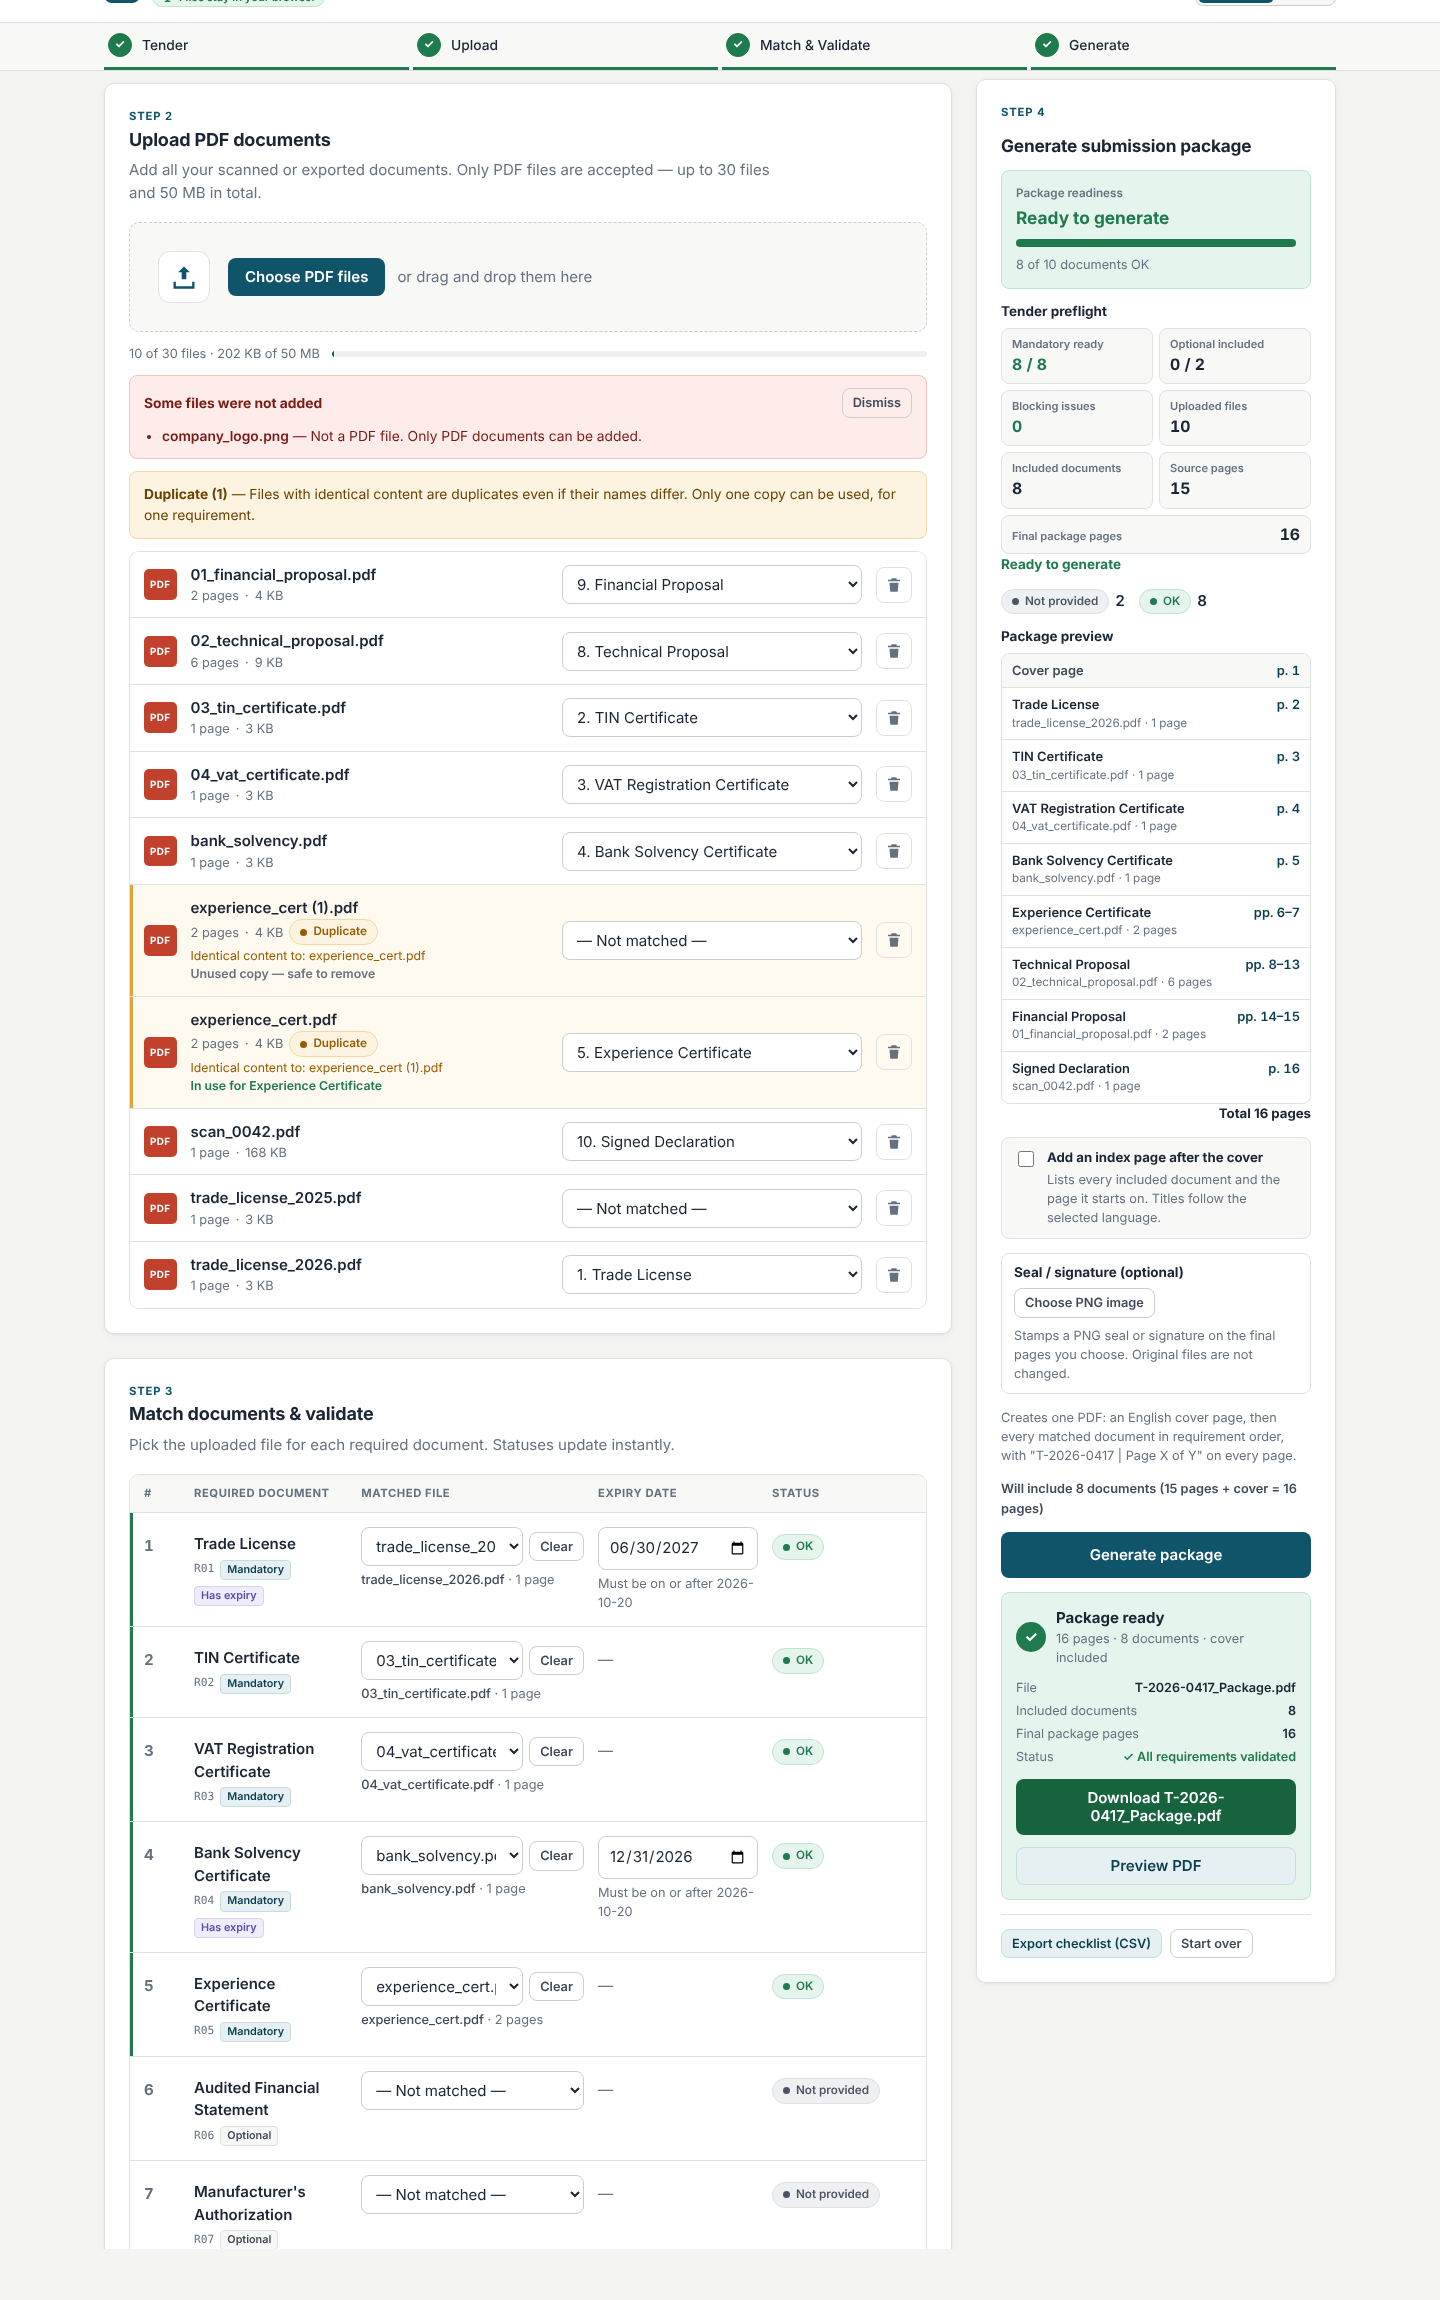
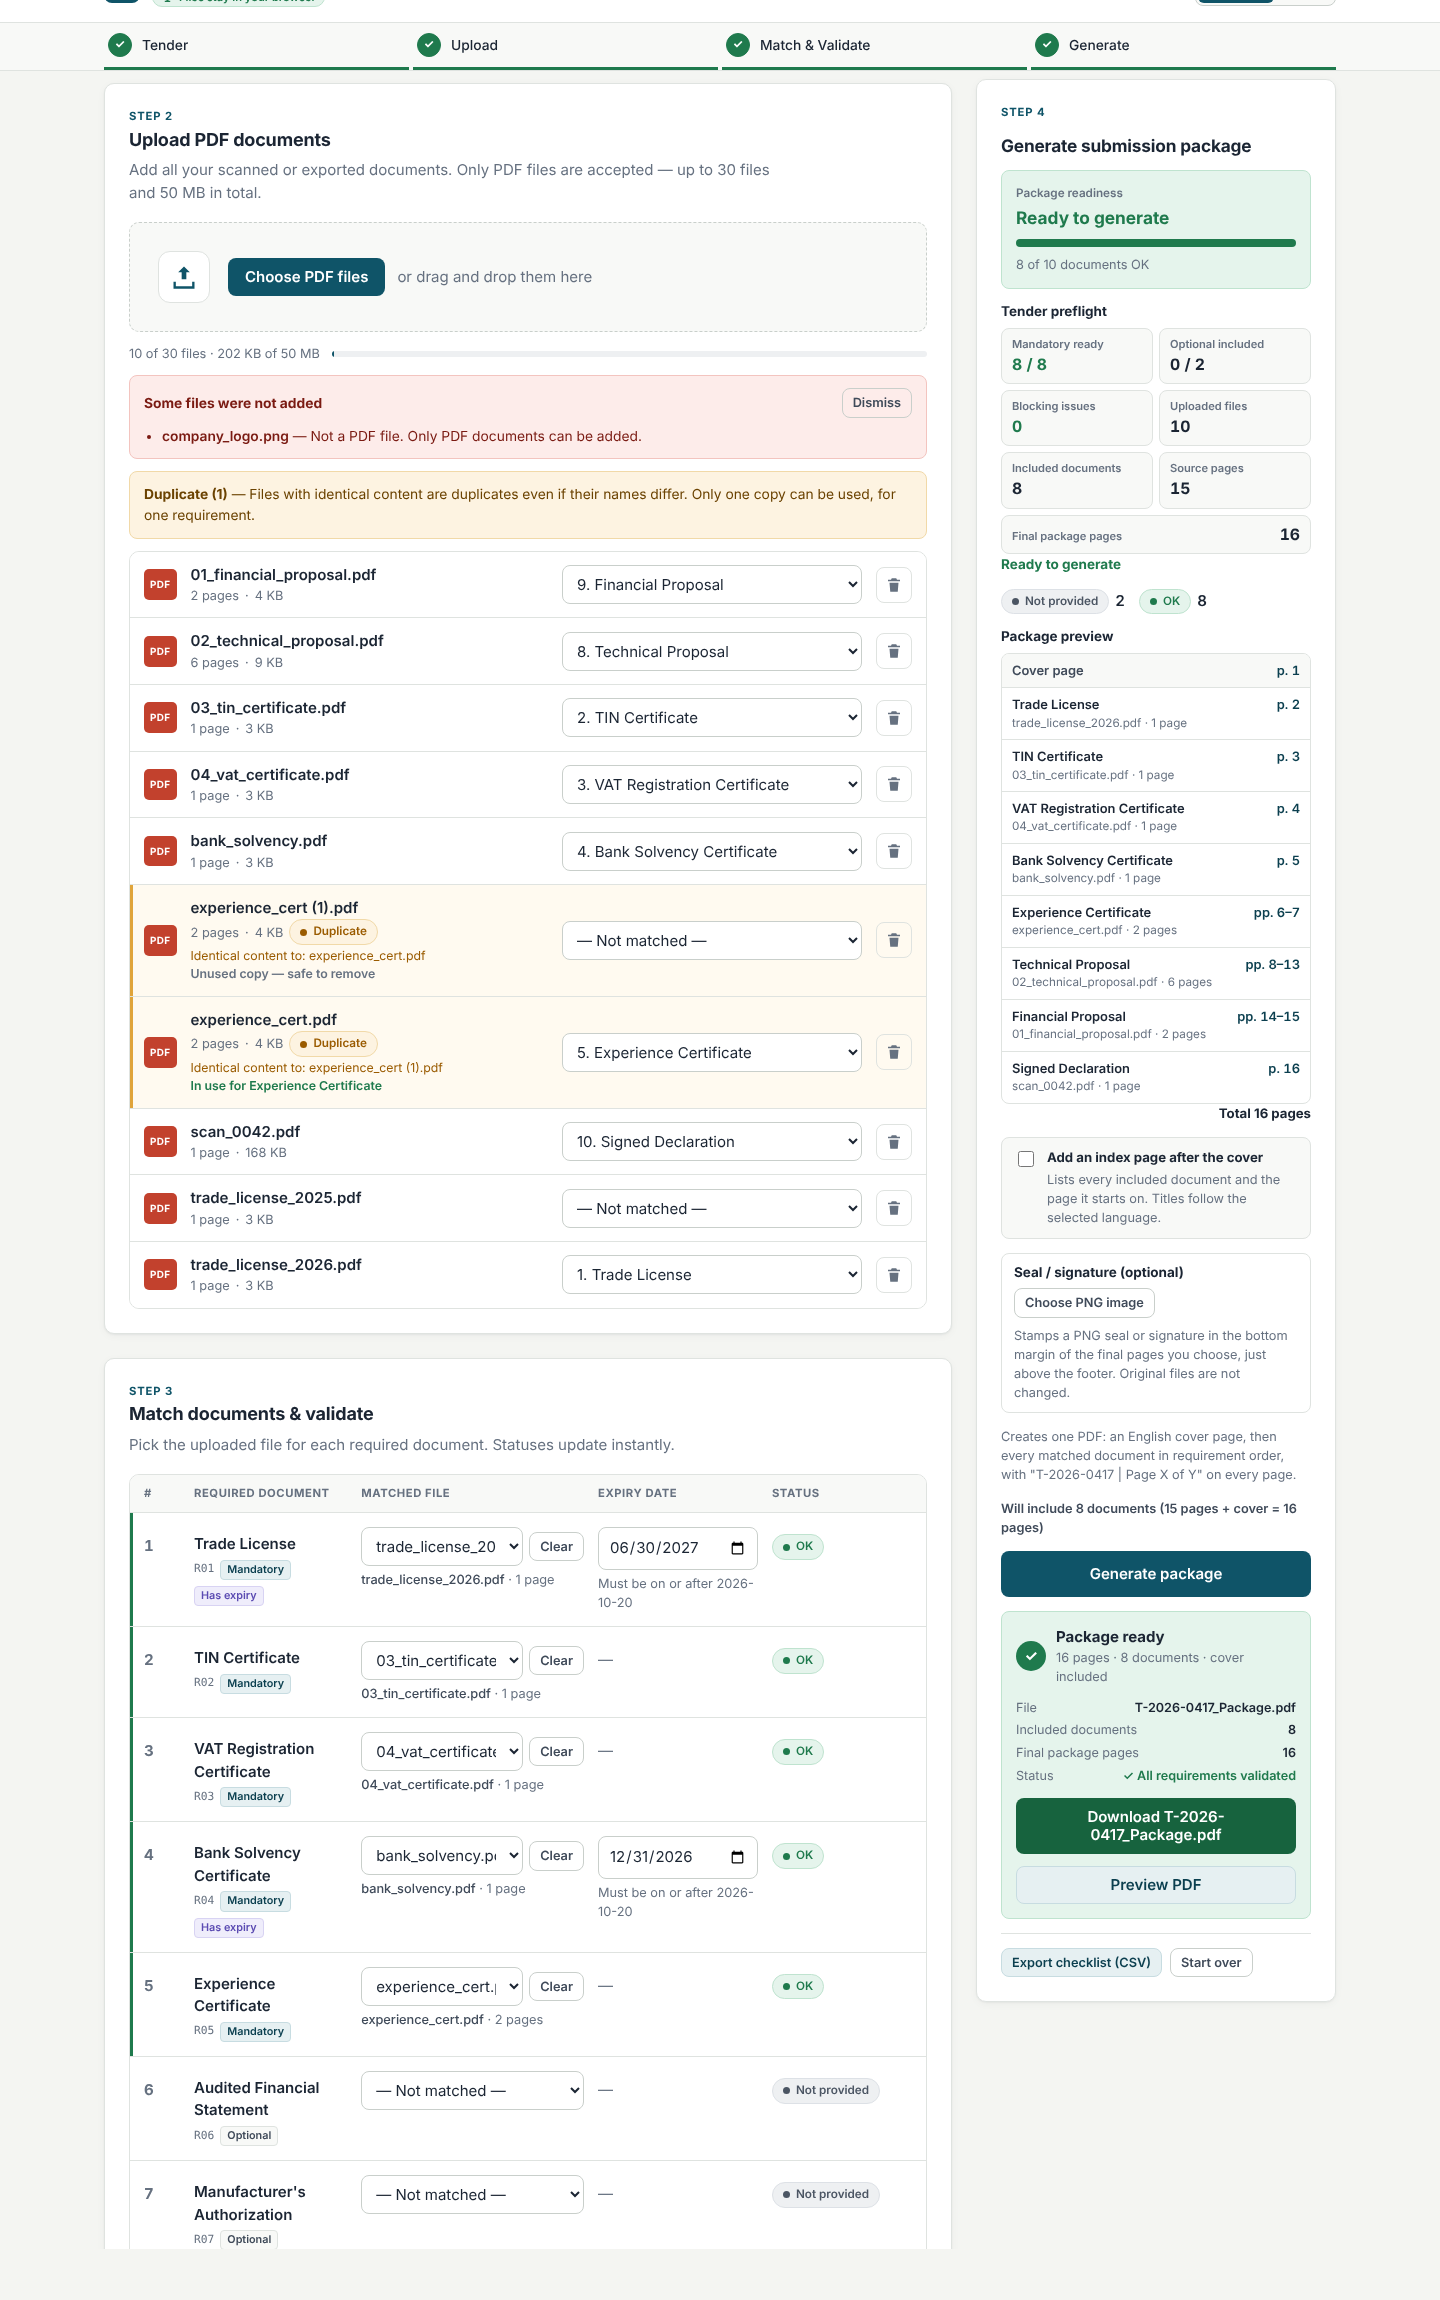
Keep seals clear of page content
- Place seals only in the bottom margin, above the footer
- Cap seal size so it fits the margin band on every page
- Keep the cover document list clear of that band
- List every document on the cover, even for long packages
- Translate the non-PNG seal error when switching language

AI Prompt: Make the optional seal/signature bonus judge-safe: no blocking when unused, PNG-only with bilingual errors, strict page validation, placement inside the page that never covers document content or the footer, rotation-aware, with the official output left unchanged.

Changed region(s): [[0.6875, 0.5865, 0.9062, 0.8643]]

diff --git a/src/lib/pdf.js b/src/lib/pdf.js
@@ -136,22 +136,26 @@ function drawCover(page, fonts, tender, entries, generatedOn) {
   page.drawText('Included Documents', { x: M, y, size: 13, font: bold, color: INK })
   y -= 20
 
-  // Shrink the list until it fits above the footer area.
-  const bottom = 48
+  // Shrink the list until it fits above the seal band and footer. If it still does not fit,
+  // drop the file-name lines so every included document is always listed.
+  const bottom = SEAL_BAND_TOP + 4
   const colNo = 26
   const colPages = 86
   let size = 10
   let layout
-  for (; size >= 6; size -= 0.5) {
-    const lh = size * 1.35
-    layout = entries.map((e) => {
-      const title = wrap(bold, safeText(bold, e.title), size, width - colNo - colPages)
-      const file = wrap(regular, safeText(regular, e.fileName), size - 1, width - colNo - colPages)
-      return { e, title, file, h: (title.length + file.length) * lh + size * 0.6 }
-    })
-    const total = layout.reduce((s, l) => s + l.h, size * 1.8)
-    if (y - total >= bottom) break
+  fitting: for (const withFiles of [true, false]) {
+    for (size = 10; size >= 6; size -= 0.5) {
+      const lh = size * 1.35
+      layout = entries.map((e) => {
+        const title = wrap(bold, safeText(bold, e.title), size, width - colNo - colPages)
+        const file = withFiles ? wrap(regular, safeText(regular, e.fileName), size - 1, width - colNo - colPages) : []
+        return { e, title, file, h: (title.length + file.length) * lh + size * 0.6 }
+      })
+      const total = layout.reduce((s, l) => s + l.h, size * 1.8)
+      if (y - total >= bottom) break fitting
+    }
   }
+  size = Math.max(size, 6)
   const lh = size * 1.35
 
   page.drawText('#', { x: M, y, size: size - 1, font: bold, color: MUTED })
@@ -291,25 +295,28 @@ export function parsePageList(text, max) {
   return [...out].sort((x, y) => x - y)
 }
 
-export const SEAL_SIZES = { s: 70, m: 100, l: 140 }
+export const SEAL_SIZES = { s: 48, m: 60, l: 72 }
+// Seals live in the bottom margin band, between the footer and normal page content.
+const SEAL_BOTTOM = 30
+const SEAL_BAND_TOP = SEAL_BOTTOM + SEAL_SIZES.l
 
-// Places the seal in a visual corner of the page (honouring /Rotate), clear of the footer strip.
+// Places the seal in a bottom corner of the visual page (honouring /Rotate), above the footer strip
+// and inside the bottom margin band so it does not cover the letterhead or body text.
 function drawSeal(page, image, position, sizePt) {
   const box = page.getCropBox()
   const rot = (((page.getRotation().angle || 0) % 360) + 360) % 360
   const sideways = rot === 90 || rot === 270
   const VW = sideways ? box.height : box.width
   const VH = sideways ? box.width : box.height
-  let w = Math.min(sizePt, VW * 0.4)
-  let h = (w * image.height) / image.width
-  if (h > VH * 0.3) {
-    h = VH * 0.3
-    w = (h * image.width) / image.height
-  }
+  // Fit inside a sizePt x sizePt box (and a sane share of small pages), preserving aspect ratio.
+  const maxW = Math.min(sizePt * 1.6, VW * 0.3)
+  const maxH = Math.min(sizePt, VH * 0.1)
+  const k = Math.min(maxW / image.width, maxH / image.height)
+  const w = image.width * k
+  const h = image.height * k
   const margin = 24
-  const bottom = 36 // keeps the seal above the footer
-  const vx = position.endsWith('left') ? margin : VW - margin - w
-  const vy = position.startsWith('bottom') ? bottom : VH - margin - h
+  const vx = position === 'bottom-left' ? margin : VW - margin - w
+  const vy = SEAL_BOTTOM
   let x, y
   if (rot === 90) {
     x = box.x + box.width - vy

diff --git a/src/lib/i18n.js b/src/lib/i18n.js
@@ -162,15 +162,13 @@ const en = {
   errRestore: 'Saved copy is missing or changed — upload this file again.',
   sealTitle: 'Seal / signature (optional)',
   sealChoose: 'Choose PNG image',
-  sealHint: 'Stamps a PNG seal or signature on the final pages you choose. Original files are not changed.',
+  sealHint: 'Stamps a PNG seal or signature in the bottom margin of the final pages you choose, just above the footer. Original files are not changed.',
   sealPreviewAlt: 'Seal preview',
   sealPages: 'Final page numbers (1–{max})',
   sealPos: 'Position',
   sealSize: 'Size',
   'pos_bottom-right': 'Bottom right',
   'pos_bottom-left': 'Bottom left',
-  'pos_top-right': 'Top right',
-  'pos_top-left': 'Top left',
   size_s: 'Small',
   size_m: 'Medium',
   size_l: 'Large',
@@ -338,15 +336,13 @@ const bn = {
   errRestore: 'সংরক্ষিত কপি নেই বা বদলে গেছে — ফাইলটি আবার আপলোড করুন।',
   sealTitle: 'সিল / স্বাক্ষর (ঐচ্ছিক)',
   sealChoose: 'PNG ছবি বেছে নিন',
-  sealHint: 'আপনার বেছে নেওয়া চূড়ান্ত পৃষ্ঠাগুলোতে PNG সিল বা স্বাক্ষর বসায়। মূল ফাইল বদলায় না।',
+  sealHint: 'আপনার বেছে নেওয়া চূড়ান্ত পৃষ্ঠাগুলোর নিচের মার্জিনে, ফুটারের ঠিক উপরে PNG সিল বা স্বাক্ষর বসায়। মূল ফাইল বদলায় না।',
   sealPreviewAlt: 'সিলের প্রিভিউ',
   sealPages: 'চূড়ান্ত পৃষ্ঠা নম্বর (১–{max})',
   sealPos: 'অবস্থান',
   sealSize: 'আকার',
   'pos_bottom-right': 'নিচে ডানে',
   'pos_bottom-left': 'নিচে বামে',
-  'pos_top-right': 'উপরে ডানে',
-  'pos_top-left': 'উপরে বামে',
   size_s: 'ছোট',
   size_m: 'মাঝারি',
   size_l: 'বড়',

diff --git a/src/App.jsx b/src/App.jsx
@@ -311,7 +311,7 @@ export default function App() {
     if (!file) return
     const bytes = new Uint8Array(await file.arrayBuffer())
     if (!isPng(bytes)) {
-      setSealError(t('errSealPng'))
+      setSealError('errSealPng')
       return
     }
     setSealError('')
@@ -878,7 +878,7 @@ export default function App() {
                         <label>
                           <span className="small">{t('sealPos')}</span>
                           <select value={sealPos} onChange={(e) => setSealPos(e.target.value)}>
-                            {['bottom-right', 'bottom-left', 'top-right', 'top-left'].map((p) => <option key={p} value={p}>{t(`pos_${p}`)}</option>)}
+                            {['bottom-right', 'bottom-left'].map((p) => <option key={p} value={p}>{t(`pos_${p}`)}</option>)}
                           </select>
                         </label>
                         <label>
@@ -893,7 +893,7 @@ export default function App() {
                       </p>
                     </>
                   )}
-                  {sealError && <p className="small seal-err" role="alert">{sealError}</p>}
+                  {sealError && <p className="small seal-err" role="alert">{t(sealError)}</p>}
                 </section>
 
                 <p className="muted small">{t('generateHelp', { id: data.tender.tender_id })}</p>

diff --git a/README.md b/README.md
@@ -42,7 +42,7 @@ Optional browser test: run `npm run dev`, then `node tests/e2e.cjs` (requires Pl
 - **Duplicate detection by content.** The app computes a SHA-256 hash of each file's bytes with the Web Crypto API. All copies are marked and the duplication is explained. A copy cannot be matched to a different requirement while another copy is in use (that option is disabled and the reason is shown). Duplicates are recalculated when files are removed.
 - **Expiry dates.** An expiry input appears when `has_expiry` is true and a file is matched. It is compared to the deadline as a `YYYY-MM-DD` string: an expiry before the deadline is Expired, and an expiry on or after the deadline is OK.
 - **Status engine (`src/lib/status.js`).** Every requirement gets exactly one of: Missing, Expiry date needed, Expired, Not provided, or OK. The readiness summary, blocking-reason list, progress bar and Generate button all read from this single engine.
-- **Generated PDF.** Page 1 is an English cover with the tender ID, title, procuring entity, bidder, deadline, generation date, and the list of included documents in final order with their page ranges. Matched documents follow in requirement order. All original pages are kept in their original order, and unmatched optional requirements are skipped.
+- **Generated PDF.** Page 1 is an English cover with the tender ID, title, procuring entity, bidder, deadline, generation date, and the list of included documents in final order with their page ranges. Long lists shrink to fit; if they still don't fit, the file-name lines are dropped so every included document stays listed (tested with 30 documents). Matched documents follow in requirement order. All original pages are kept in their original order, and unmatched optional requirements are skipped.
 - **Footer.** Every page, including the cover, carries `<tender_id> | Page X of Y`. Y is the final total, computed before numbering. The footer is small, centred at the bottom on a light backing, and placed correctly on rotated pages.
 - **Download** as `<tender_id>_Package.pdf`. Characters that are illegal in filenames are replaced.
 - **Full English | বাংলা switch.** It covers the header, steps, buttons, labels, help text, statuses, errors, blocking reasons and generate/download actions, and uses Bangla numerals. Document names use `title_en` or `title_bn` depending on the language.
@@ -56,7 +56,7 @@ Optional browser test: run `npm run dev`, then `node tests/e2e.cjs` (requires Pl
 - **Index page (optional).** A toggle adds an index page after the cover, listing every included document with the page it starts on. Start pages come from each document's real page count, and adding the index shifts every later page by one. The cover, the index and every document page all carry `<tender_id> | Page X of Y`. For the official sample with the index on, the package is 17 pages: 1 cover, 1 index and 15 source pages.
 - **Bangla text in the PDF.** When the UI is in বাংলা, the index page shows the heading, column labels and every document title in Bangla (`title_bn`). The app bundles Noto Sans Bengali (SIL OFL, see `src/assets/fonts/OFL.txt`) and loads it from the app itself, never from an external server. pdf-lib's own text engine shapes some Bengali conjuncts incorrectly (for example প্র and ট্রে), so the browser shapes the Bangla text with this font and the result is embedded as a high-resolution image. That makes the Bangla display correctly, but it can't be selected or searched as text. The cover stays in English with the required fields.
 - **Save and reopen.** "Save work" stores the requirements, the uploaded PDF bytes, matches, expiry dates, language and the index setting in the browser's IndexedDB, on this device only. "Reopen saved work" restores it and re-checks every stored file's SHA-256, so duplicate detection stays valid. A file that is missing or changed is reported and its match is cleared. "Clear saved work" deletes everything stored.
-- **Seal / signature.** Upload a PNG (anything else is rejected), preview it, enter the final page numbers it should go on (for example `1, 16` or `3-5`; checked against the current final page count and listed before you generate), and pick a corner (bottom-right, bottom-left, top-right or top-left) and a size. The seal keeps its aspect ratio, stays inside the page and above the footer, follows page rotation, and goes only on the chosen pages. The original files are never changed.
+- **Seal / signature (optional).** No seal is loaded by default, and an empty seal section never blocks generation. Validation starts only once you upload a PNG; any other file type is rejected with a message in English or Bangla. After upload, you must enter valid final page numbers (for example `1, 16` or `3-5`). Zero, negative, non-numeric, reversed and out-of-range values are rejected, and the pages that will get the seal are listed before you generate. The seal goes in the bottom-right or bottom-left corner of the bottom margin, between the footer and the page content. It keeps its aspect ratio, fits within 72 pt, stays inside the page and follows page rotation. It never changes page order, page count, index numbering, footers or source content. Removing the seal returns the app to normal generation straight away. On the official sample, the seal covers no text or graphics on any of the 16 pages in any corner or size. The cover's document list also stops above this margin area, so a seal never covers it.
 - **Tender preflight and package preview.** These read the same status engine. The preflight shows mandatory documents ready, optional documents included, blocking issues, uploaded files, included documents, source pages and the predicted final page count, plus "Ready to generate" or "Action required". Each blocking issue is listed as "Document — Status"; clicking it scrolls to and focuses that requirement. The package preview lists the cover, the index (if on) and each document in final order with its file name, page count and page range.
 - **Package ready summary.** It shows the file name, the number of included documents, the total pages and the validation result, with Download and "Preview PDF" buttons. Preview opens the PDF from a local blob URL in a new tab.
 - **Trust indicator.** A "Files stay in your browser" / "ফাইল আপনার ব্রাউজারেই থাকে" badge in the header. This is accurate because there is no backend and nothing is uploaded.
